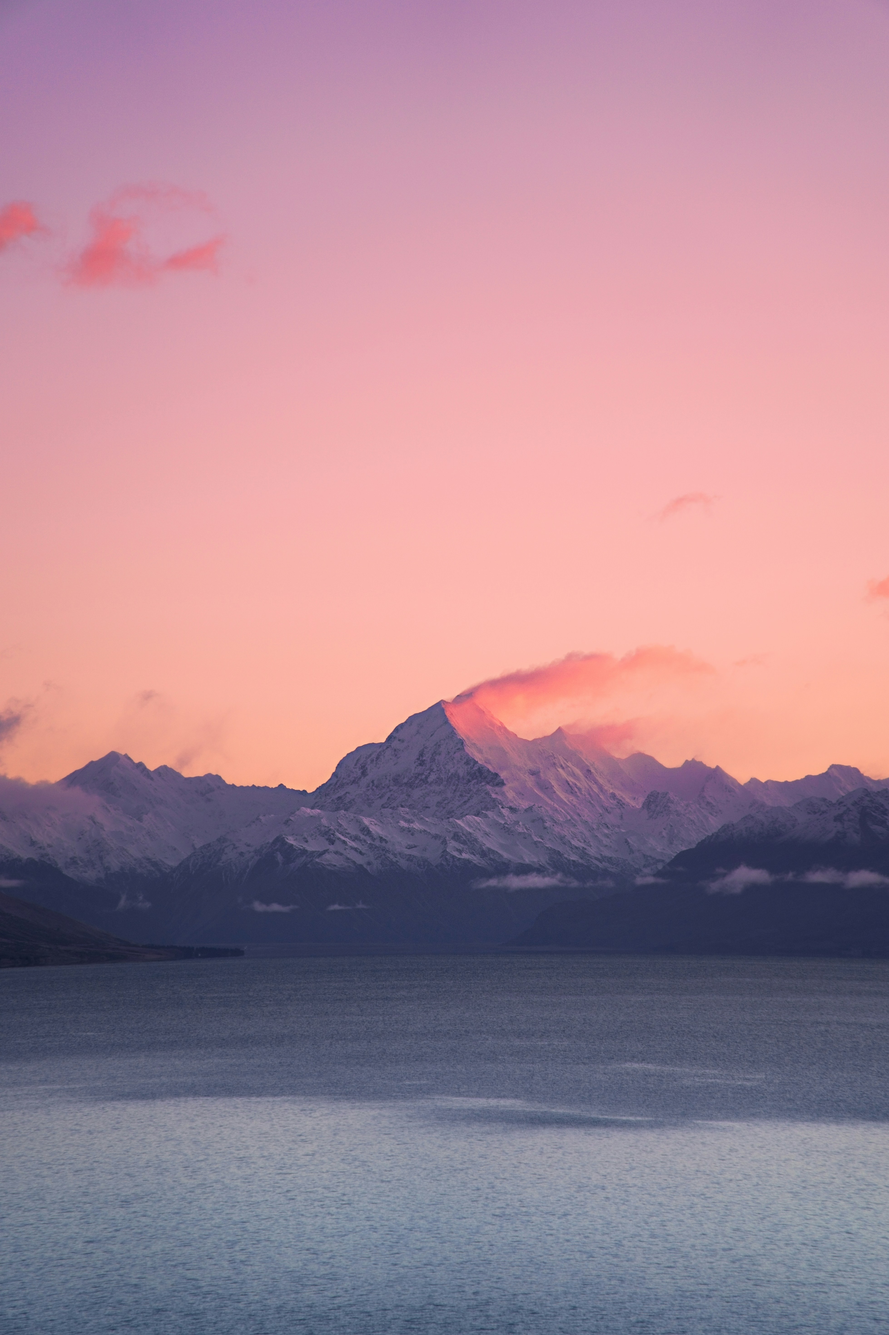
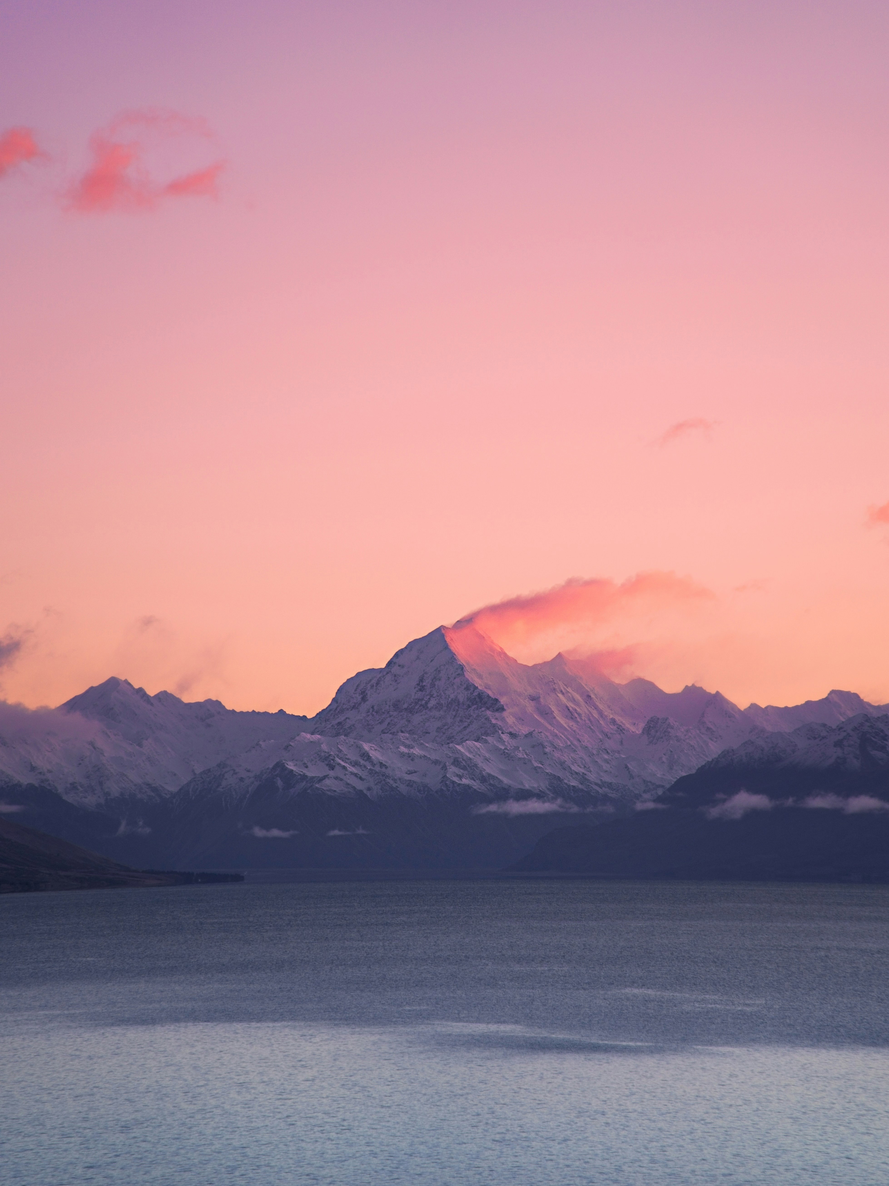
Font and profile picture twick

diff --git a/_sass/_base.scss b/_sass/_base.scss
@@ -8,6 +8,7 @@
 
 body {
   font-family: -apple-system, Lato, Arial, sans-serif;
+  font-weight: 500;
 }
 
 p,

diff --git a/_pages/about.md b/_pages/about.md
@@ -5,13 +5,13 @@ permalink: /
 subtitle: 卢俊元 Undergraduate in Materials Science and Engineering at SJTU
 
 profile:
-  align: left
+  align: right
   image: prof_pic.jpg
   image_circular: false # crops the image to make it circular
   more_info: >
-    <p>Mobile: +86 18617123595</p>
-    <p>800 Dongchuan Road</p>
-    <p>Shanghai, China 200240</p>
+    <p>Mobile: +86 18617123595 </p>
+    <p>800 Dongchuan Road </p>
+    <p>Shanghai, China 200240 </p>
 
 news: true # includes a list of news items
 selected_papers: true # includes a list of papers marked as "selected={true}"
